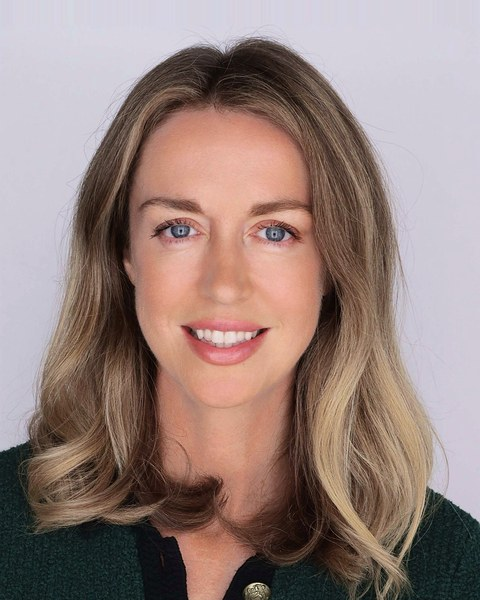
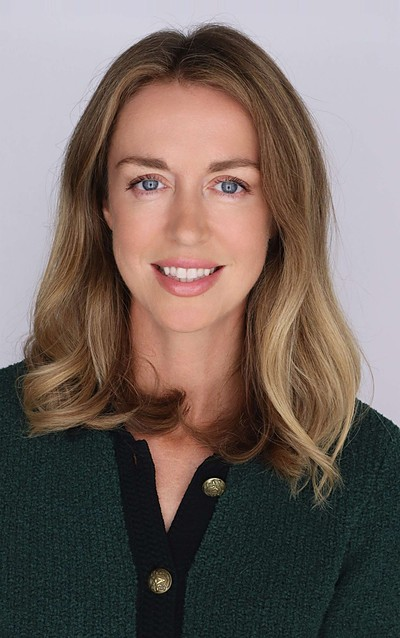
Update Clayton and Thomas leadership photos
Clayton: ungraded original, full frame rather than the tighter 4:5 crop.
Thomas: current photo from jakanathomas.com, replacing a very tight crop.
Both now sit at a similar scale to the rest of the row.

diff --git a/leadership.html b/leadership.html
@@ -163,7 +163,7 @@
         </details>
       </li>
       <li>
-        <img src="img/20171026-dlt3121-1_2.jpg" alt="Jakana Thomas" width="300" height="300">
+        <img src="img/jakana-thomas-2026.jpg" alt="Jakana Thomas" width="300" height="300">
         <p class="p-name"><a href="https://www.jakanathomas.com" target="_blank" rel="noopener">Jakana Thomas</a></p>
         <p class="p-role">Professor of Public Policy<br>School of Global Policy and Strategy, UC San Diego</p>
         <details>
